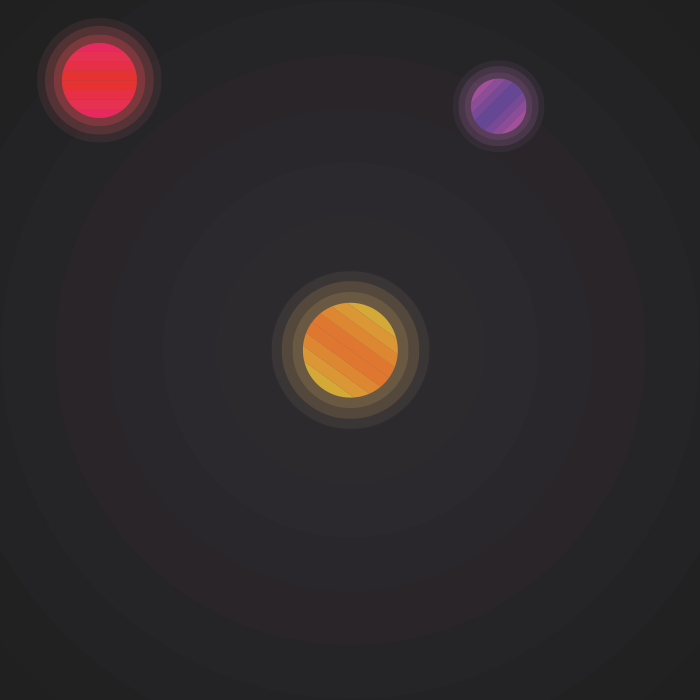
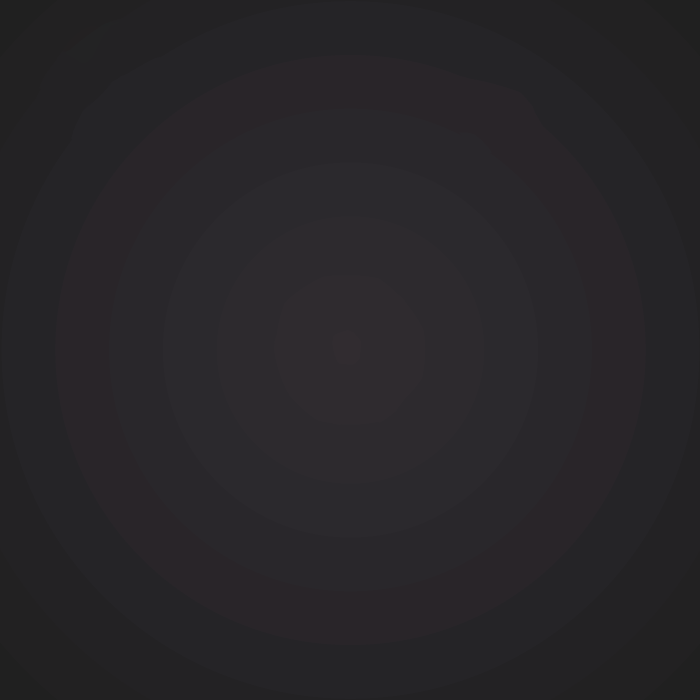
closed #3, rocket is moving, yay!

Changed region(s): [[0.39, 0.39, 0.6, 0.6], [0.06, 0.03, 0.24, 0.21], [0.66, 0.09, 0.78, 0.21]]

diff --git a/js/script.js b/js/script.js
@@ -50,7 +50,7 @@
 /* 1 */
 /***/ function(module, exports, __webpack_require__) {
 
-	eval("'use strict';\n\nfunction _interopRequireDefault(obj) { return obj && obj.__esModule ? obj : { 'default': obj }; }\n\nvar _classesStatesPreload = __webpack_require__(4);\n\nvar _classesStatesPreload2 = _interopRequireDefault(_classesStatesPreload);\n\nvar _classesStatesIntro = __webpack_require__(5);\n\nvar _classesStatesIntro2 = _interopRequireDefault(_classesStatesIntro);\n\nvar game = undefined;\n\nvar init = function init() {\n  game = new Phaser.Game(700, 700, Phaser.AUTO);\n  game.state.add('Preload', _classesStatesPreload2['default'], false);\n  game.state.add('Intro', _classesStatesIntro2['default'], false);\n  game.state.start('Preload');\n};\n\ninit();\n\n/*****************\n ** WEBPACK FOOTER\n ** ./_js/script.js\n ** module id = 1\n ** module chunks = 0\n **/\n//# sourceURL=webpack:///./_js/script.js?");
+	eval("'use strict';\n\nfunction _interopRequireDefault(obj) { return obj && obj.__esModule ? obj : { 'default': obj }; }\n\nvar _classesStatesPreload = __webpack_require__(4);\n\nvar _classesStatesPreload2 = _interopRequireDefault(_classesStatesPreload);\n\nvar _classesStatesIntro = __webpack_require__(5);\n\nvar _classesStatesIntro2 = _interopRequireDefault(_classesStatesIntro);\n\nvar _classesStatesPlay = __webpack_require__(9);\n\nvar _classesStatesPlay2 = _interopRequireDefault(_classesStatesPlay);\n\nvar game = undefined;\n\nvar init = function init() {\n  game = new Phaser.Game(700, 700, Phaser.AUTO);\n  game.state.add('Preload', _classesStatesPreload2['default'], false);\n  game.state.add('Intro', _classesStatesIntro2['default'], false);\n  game.state.add('Play', _classesStatesPlay2['default'], false);\n  game.state.start('Preload');\n};\n\ninit();\n\n/*****************\n ** WEBPACK FOOTER\n ** ./_js/script.js\n ** module id = 1\n ** module chunks = 0\n **/\n//# sourceURL=webpack:///./_js/script.js?");
 
 /***/ },
 /* 2 */
@@ -63,13 +63,13 @@
 /* 4 */
 /***/ function(module, exports) {
 
-	eval("'use strict';\n\nObject.defineProperty(exports, '__esModule', {\n  value: true\n});\n\nvar _createClass = (function () { function defineProperties(target, props) { for (var i = 0; i < props.length; i++) { var descriptor = props[i]; descriptor.enumerable = descriptor.enumerable || false; descriptor.configurable = true; if ('value' in descriptor) descriptor.writable = true; Object.defineProperty(target, descriptor.key, descriptor); } } return function (Constructor, protoProps, staticProps) { if (protoProps) defineProperties(Constructor.prototype, protoProps); if (staticProps) defineProperties(Constructor, staticProps); return Constructor; }; })();\n\nvar _get = function get(_x, _x2, _x3) { var _again = true; _function: while (_again) { var object = _x, property = _x2, receiver = _x3; _again = false; if (object === null) object = Function.prototype; var desc = Object.getOwnPropertyDescriptor(object, property); if (desc === undefined) { var parent = Object.getPrototypeOf(object); if (parent === null) { return undefined; } else { _x = parent; _x2 = property; _x3 = receiver; _again = true; desc = parent = undefined; continue _function; } } else if ('value' in desc) { return desc.value; } else { var getter = desc.get; if (getter === undefined) { return undefined; } return getter.call(receiver); } } };\n\nfunction _classCallCheck(instance, Constructor) { if (!(instance instanceof Constructor)) { throw new TypeError('Cannot call a class as a function'); } }\n\nfunction _inherits(subClass, superClass) { if (typeof superClass !== 'function' && superClass !== null) { throw new TypeError('Super expression must either be null or a function, not ' + typeof superClass); } subClass.prototype = Object.create(superClass && superClass.prototype, { constructor: { value: subClass, enumerable: false, writable: true, configurable: true } }); if (superClass) Object.setPrototypeOf ? Object.setPrototypeOf(subClass, superClass) : subClass.__proto__ = superClass; }\n\nvar Preload = (function (_Phaser$State) {\n  _inherits(Preload, _Phaser$State);\n\n  function Preload() {\n    _classCallCheck(this, Preload);\n\n    _get(Object.getPrototypeOf(Preload.prototype), 'constructor', this).apply(this, arguments);\n  }\n\n  _createClass(Preload, [{\n    key: 'preload',\n    value: function preload() {\n\n      this.load.onLoadComplete.addOnce(this.onLoadComplete, this);\n\n      this.load.image('raket', 'assets/raketklein.png');\n      this.load.image('start', 'assets/start.png');\n      this.load.image('meteoor', 'assets/meteoor.png');\n      this.load.image('planeet', 'assets/planeet.png');\n      this.load.image('background', 'assets/bg.png');\n\n      this.load.audio('rocket_launch', 'assets/sounds/launch.mp3');\n    }\n  }, {\n    key: 'create',\n    value: function create() {}\n  }, {\n    key: 'update',\n    value: function update() {}\n  }, {\n    key: 'onLoadComplete',\n    value: function onLoadComplete() {\n      this.game.state.start('Intro');\n    }\n  }]);\n\n  return Preload;\n})(Phaser.State);\n\nexports['default'] = Preload;\nmodule.exports = exports['default'];\n\n/*****************\n ** WEBPACK FOOTER\n ** ./_js/classes/states/Preload.js\n ** module id = 4\n ** module chunks = 0\n **/\n//# sourceURL=webpack:///./_js/classes/states/Preload.js?");
+	eval("'use strict';\n\nObject.defineProperty(exports, '__esModule', {\n  value: true\n});\n\nvar _createClass = (function () { function defineProperties(target, props) { for (var i = 0; i < props.length; i++) { var descriptor = props[i]; descriptor.enumerable = descriptor.enumerable || false; descriptor.configurable = true; if ('value' in descriptor) descriptor.writable = true; Object.defineProperty(target, descriptor.key, descriptor); } } return function (Constructor, protoProps, staticProps) { if (protoProps) defineProperties(Constructor.prototype, protoProps); if (staticProps) defineProperties(Constructor, staticProps); return Constructor; }; })();\n\nvar _get = function get(_x, _x2, _x3) { var _again = true; _function: while (_again) { var object = _x, property = _x2, receiver = _x3; _again = false; if (object === null) object = Function.prototype; var desc = Object.getOwnPropertyDescriptor(object, property); if (desc === undefined) { var parent = Object.getPrototypeOf(object); if (parent === null) { return undefined; } else { _x = parent; _x2 = property; _x3 = receiver; _again = true; desc = parent = undefined; continue _function; } } else if ('value' in desc) { return desc.value; } else { var getter = desc.get; if (getter === undefined) { return undefined; } return getter.call(receiver); } } };\n\nfunction _classCallCheck(instance, Constructor) { if (!(instance instanceof Constructor)) { throw new TypeError('Cannot call a class as a function'); } }\n\nfunction _inherits(subClass, superClass) { if (typeof superClass !== 'function' && superClass !== null) { throw new TypeError('Super expression must either be null or a function, not ' + typeof superClass); } subClass.prototype = Object.create(superClass && superClass.prototype, { constructor: { value: subClass, enumerable: false, writable: true, configurable: true } }); if (superClass) Object.setPrototypeOf ? Object.setPrototypeOf(subClass, superClass) : subClass.__proto__ = superClass; }\n\nvar Preload = (function (_Phaser$State) {\n  _inherits(Preload, _Phaser$State);\n\n  function Preload() {\n    _classCallCheck(this, Preload);\n\n    _get(Object.getPrototypeOf(Preload.prototype), 'constructor', this).apply(this, arguments);\n  }\n\n  _createClass(Preload, [{\n    key: 'preload',\n    value: function preload() {\n\n      this.load.onLoadComplete.addOnce(this.onLoadComplete, this);\n\n      this.load.image('raket', 'assets/raketklein.png');\n      this.load.image('start', 'assets/start.png');\n      this.load.image('meteoor', 'assets/meteoor.png');\n      this.load.image('planeet', 'assets/planeet.png');\n      this.load.image('background_overlay', 'assets/bgoverlay.png');\n      this.load.image('background', 'assets/bg.png');\n\n      this.load.audio('rocket_launch', 'assets/sounds/launch.mp3');\n    }\n  }, {\n    key: 'create',\n    value: function create() {}\n  }, {\n    key: 'update',\n    value: function update() {}\n  }, {\n    key: 'onLoadComplete',\n    value: function onLoadComplete() {\n      this.game.state.start('Intro');\n    }\n  }]);\n\n  return Preload;\n})(Phaser.State);\n\nexports['default'] = Preload;\nmodule.exports = exports['default'];\n\n/*****************\n ** WEBPACK FOOTER\n ** ./_js/classes/states/Preload.js\n ** module id = 4\n ** module chunks = 0\n **/\n//# sourceURL=webpack:///./_js/classes/states/Preload.js?");
 
 /***/ },
 /* 5 */
 /***/ function(module, exports, __webpack_require__) {
 
-	eval("'use strict';\n\nObject.defineProperty(exports, '__esModule', {\n  value: true\n});\n\nvar _createClass = (function () { function defineProperties(target, props) { for (var i = 0; i < props.length; i++) { var descriptor = props[i]; descriptor.enumerable = descriptor.enumerable || false; descriptor.configurable = true; if ('value' in descriptor) descriptor.writable = true; Object.defineProperty(target, descriptor.key, descriptor); } } return function (Constructor, protoProps, staticProps) { if (protoProps) defineProperties(Constructor.prototype, protoProps); if (staticProps) defineProperties(Constructor, staticProps); return Constructor; }; })();\n\nvar _get = function get(_x, _x2, _x3) { var _again = true; _function: while (_again) { var object = _x, property = _x2, receiver = _x3; _again = false; if (object === null) object = Function.prototype; var desc = Object.getOwnPropertyDescriptor(object, property); if (desc === undefined) { var parent = Object.getPrototypeOf(object); if (parent === null) { return undefined; } else { _x = parent; _x2 = property; _x3 = receiver; _again = true; desc = parent = undefined; continue _function; } } else if ('value' in desc) { return desc.value; } else { var getter = desc.get; if (getter === undefined) { return undefined; } return getter.call(receiver); } } };\n\nfunction _interopRequireDefault(obj) { return obj && obj.__esModule ? obj : { 'default': obj }; }\n\nfunction _classCallCheck(instance, Constructor) { if (!(instance instanceof Constructor)) { throw new TypeError('Cannot call a class as a function'); } }\n\nfunction _inherits(subClass, superClass) { if (typeof superClass !== 'function' && superClass !== null) { throw new TypeError('Super expression must either be null or a function, not ' + typeof superClass); } subClass.prototype = Object.create(superClass && superClass.prototype, { constructor: { value: subClass, enumerable: false, writable: true, configurable: true } }); if (superClass) Object.setPrototypeOf ? Object.setPrototypeOf(subClass, superClass) : subClass.__proto__ = superClass; }\n\nvar _objectsRocket = __webpack_require__(6);\n\nvar _objectsRocket2 = _interopRequireDefault(_objectsRocket);\n\nvar _objectsSpace = __webpack_require__(7);\n\nvar _objectsSpace2 = _interopRequireDefault(_objectsSpace);\n\nvar Intro = (function (_Phaser$State) {\n  _inherits(Intro, _Phaser$State);\n\n  function Intro() {\n    _classCallCheck(this, Intro);\n\n    _get(Object.getPrototypeOf(Intro.prototype), 'constructor', this).apply(this, arguments);\n  }\n\n  _createClass(Intro, [{\n    key: 'create',\n    value: function create() {\n      this.space = new _objectsSpace2['default'](this.game, 0, 0, 700, 700);\n      this.game.add.existing(this.space);\n\n      this.rocket = new _objectsRocket2['default'](this.game, 350, 600);\n      this.game.add.existing(this.rocket);\n\n      this.startButton = this.game.add.button(350, 500, 'start', this.goClick, this);\n      this.startButton.anchor.setTo(0.5, 0.5);\n    }\n  }, {\n    key: 'goClick',\n    value: function goClick() {}\n  }]);\n\n  return Intro;\n})(Phaser.State);\n\nexports['default'] = Intro;\nmodule.exports = exports['default'];\n\n/*****************\n ** WEBPACK FOOTER\n ** ./_js/classes/states/Intro.js\n ** module id = 5\n ** module chunks = 0\n **/\n//# sourceURL=webpack:///./_js/classes/states/Intro.js?");
+	eval("'use strict';\n\nObject.defineProperty(exports, '__esModule', {\n  value: true\n});\n\nvar _createClass = (function () { function defineProperties(target, props) { for (var i = 0; i < props.length; i++) { var descriptor = props[i]; descriptor.enumerable = descriptor.enumerable || false; descriptor.configurable = true; if ('value' in descriptor) descriptor.writable = true; Object.defineProperty(target, descriptor.key, descriptor); } } return function (Constructor, protoProps, staticProps) { if (protoProps) defineProperties(Constructor.prototype, protoProps); if (staticProps) defineProperties(Constructor, staticProps); return Constructor; }; })();\n\nvar _get = function get(_x, _x2, _x3) { var _again = true; _function: while (_again) { var object = _x, property = _x2, receiver = _x3; _again = false; if (object === null) object = Function.prototype; var desc = Object.getOwnPropertyDescriptor(object, property); if (desc === undefined) { var parent = Object.getPrototypeOf(object); if (parent === null) { return undefined; } else { _x = parent; _x2 = property; _x3 = receiver; _again = true; desc = parent = undefined; continue _function; } } else if ('value' in desc) { return desc.value; } else { var getter = desc.get; if (getter === undefined) { return undefined; } return getter.call(receiver); } } };\n\nfunction _interopRequireDefault(obj) { return obj && obj.__esModule ? obj : { 'default': obj }; }\n\nfunction _classCallCheck(instance, Constructor) { if (!(instance instanceof Constructor)) { throw new TypeError('Cannot call a class as a function'); } }\n\nfunction _inherits(subClass, superClass) { if (typeof superClass !== 'function' && superClass !== null) { throw new TypeError('Super expression must either be null or a function, not ' + typeof superClass); } subClass.prototype = Object.create(superClass && superClass.prototype, { constructor: { value: subClass, enumerable: false, writable: true, configurable: true } }); if (superClass) Object.setPrototypeOf ? Object.setPrototypeOf(subClass, superClass) : subClass.__proto__ = superClass; }\n\nvar _objectsBackground = __webpack_require__(8);\n\nvar _objectsBackground2 = _interopRequireDefault(_objectsBackground);\n\nvar _objectsRocket = __webpack_require__(6);\n\nvar _objectsRocket2 = _interopRequireDefault(_objectsRocket);\n\nvar _objectsSpace = __webpack_require__(7);\n\nvar _objectsSpace2 = _interopRequireDefault(_objectsSpace);\n\nvar Intro = (function (_Phaser$State) {\n  _inherits(Intro, _Phaser$State);\n\n  function Intro() {\n    _classCallCheck(this, Intro);\n\n    _get(Object.getPrototypeOf(Intro.prototype), 'constructor', this).apply(this, arguments);\n  }\n\n  _createClass(Intro, [{\n    key: 'create',\n    value: function create() {\n      this.bg = new _objectsBackground2['default'](this.game, 0, 0, 700, 700);\n      this.game.add.existing(this.bg);\n\n      this.space = new _objectsSpace2['default'](this.game, 0, 0, 700, 700);\n      this.game.add.existing(this.space);\n\n      this.rocket = new _objectsRocket2['default'](this.game, 350, 600);\n      this.game.add.existing(this.rocket);\n\n      this.startButton = this.game.add.button(350, 500, 'start', this.goClick, this);\n      this.startButton.anchor.setTo(0.5, 0.5);\n    }\n  }, {\n    key: 'goClick',\n    value: function goClick() {\n      this.game.state.start('Play');\n    }\n  }]);\n\n  return Intro;\n})(Phaser.State);\n\nexports['default'] = Intro;\nmodule.exports = exports['default'];\n\n/*****************\n ** WEBPACK FOOTER\n ** ./_js/classes/states/Intro.js\n ** module id = 5\n ** module chunks = 0\n **/\n//# sourceURL=webpack:///./_js/classes/states/Intro.js?");
 
 /***/ },
 /* 6 */
@@ -81,7 +81,19 @@
 /* 7 */
 /***/ function(module, exports) {
 
-	eval("'use strict';\n\nObject.defineProperty(exports, '__esModule', {\n  value: true\n});\n\nvar _get = function get(_x, _x2, _x3) { var _again = true; _function: while (_again) { var object = _x, property = _x2, receiver = _x3; _again = false; if (object === null) object = Function.prototype; var desc = Object.getOwnPropertyDescriptor(object, property); if (desc === undefined) { var parent = Object.getPrototypeOf(object); if (parent === null) { return undefined; } else { _x = parent; _x2 = property; _x3 = receiver; _again = true; desc = parent = undefined; continue _function; } } else if ('value' in desc) { return desc.value; } else { var getter = desc.get; if (getter === undefined) { return undefined; } return getter.call(receiver); } } };\n\nfunction _classCallCheck(instance, Constructor) { if (!(instance instanceof Constructor)) { throw new TypeError('Cannot call a class as a function'); } }\n\nfunction _inherits(subClass, superClass) { if (typeof superClass !== 'function' && superClass !== null) { throw new TypeError('Super expression must either be null or a function, not ' + typeof superClass); } subClass.prototype = Object.create(superClass && superClass.prototype, { constructor: { value: subClass, enumerable: false, writable: true, configurable: true } }); if (superClass) Object.setPrototypeOf ? Object.setPrototypeOf(subClass, superClass) : subClass.__proto__ = superClass; }\n\nvar Track = (function (_Phaser$TileSprite) {\n  _inherits(Track, _Phaser$TileSprite);\n\n  function Track(game, x, y, width, height) {\n    _classCallCheck(this, Track);\n\n    _get(Object.getPrototypeOf(Track.prototype), 'constructor', this).call(this, game, x, y, width, height, 'background');\n    this.game.physics.arcade.enableBody(this);\n\n    this.body.allowGravity = false;\n    this.body.immovable = true;\n  }\n\n  return Track;\n})(Phaser.TileSprite);\n\nexports['default'] = Track;\nmodule.exports = exports['default'];\n\n/*****************\n ** WEBPACK FOOTER\n ** ./_js/classes/objects/Space.js\n ** module id = 7\n ** module chunks = 0\n **/\n//# sourceURL=webpack:///./_js/classes/objects/Space.js?");
+	eval("'use strict';\n\nObject.defineProperty(exports, '__esModule', {\n  value: true\n});\n\nvar _get = function get(_x, _x2, _x3) { var _again = true; _function: while (_again) { var object = _x, property = _x2, receiver = _x3; _again = false; if (object === null) object = Function.prototype; var desc = Object.getOwnPropertyDescriptor(object, property); if (desc === undefined) { var parent = Object.getPrototypeOf(object); if (parent === null) { return undefined; } else { _x = parent; _x2 = property; _x3 = receiver; _again = true; desc = parent = undefined; continue _function; } } else if ('value' in desc) { return desc.value; } else { var getter = desc.get; if (getter === undefined) { return undefined; } return getter.call(receiver); } } };\n\nfunction _classCallCheck(instance, Constructor) { if (!(instance instanceof Constructor)) { throw new TypeError('Cannot call a class as a function'); } }\n\nfunction _inherits(subClass, superClass) { if (typeof superClass !== 'function' && superClass !== null) { throw new TypeError('Super expression must either be null or a function, not ' + typeof superClass); } subClass.prototype = Object.create(superClass && superClass.prototype, { constructor: { value: subClass, enumerable: false, writable: true, configurable: true } }); if (superClass) Object.setPrototypeOf ? Object.setPrototypeOf(subClass, superClass) : subClass.__proto__ = superClass; }\n\nvar Space = (function (_Phaser$TileSprite) {\n  _inherits(Space, _Phaser$TileSprite);\n\n  function Space(game, x, y, width, height) {\n    _classCallCheck(this, Space);\n\n    _get(Object.getPrototypeOf(Space.prototype), 'constructor', this).call(this, game, x, y, width, height, 'background_overlay');\n    this.game.physics.arcade.enableBody(this);\n\n    this.body.allowGravity = false;\n    this.body.immovable = true;\n  }\n\n  return Space;\n})(Phaser.TileSprite);\n\nexports['default'] = Space;\nmodule.exports = exports['default'];\n\n/*****************\n ** WEBPACK FOOTER\n ** ./_js/classes/objects/Space.js\n ** module id = 7\n ** module chunks = 0\n **/\n//# sourceURL=webpack:///./_js/classes/objects/Space.js?");
+
+/***/ },
+/* 8 */
+/***/ function(module, exports) {
+
+	eval("'use strict';\n\nObject.defineProperty(exports, '__esModule', {\n  value: true\n});\n\nvar _get = function get(_x, _x2, _x3) { var _again = true; _function: while (_again) { var object = _x, property = _x2, receiver = _x3; _again = false; if (object === null) object = Function.prototype; var desc = Object.getOwnPropertyDescriptor(object, property); if (desc === undefined) { var parent = Object.getPrototypeOf(object); if (parent === null) { return undefined; } else { _x = parent; _x2 = property; _x3 = receiver; _again = true; desc = parent = undefined; continue _function; } } else if ('value' in desc) { return desc.value; } else { var getter = desc.get; if (getter === undefined) { return undefined; } return getter.call(receiver); } } };\n\nfunction _classCallCheck(instance, Constructor) { if (!(instance instanceof Constructor)) { throw new TypeError('Cannot call a class as a function'); } }\n\nfunction _inherits(subClass, superClass) { if (typeof superClass !== 'function' && superClass !== null) { throw new TypeError('Super expression must either be null or a function, not ' + typeof superClass); } subClass.prototype = Object.create(superClass && superClass.prototype, { constructor: { value: subClass, enumerable: false, writable: true, configurable: true } }); if (superClass) Object.setPrototypeOf ? Object.setPrototypeOf(subClass, superClass) : subClass.__proto__ = superClass; }\n\nvar Background = (function (_Phaser$TileSprite) {\n  _inherits(Background, _Phaser$TileSprite);\n\n  function Background(game, x, y, width, height) {\n    _classCallCheck(this, Background);\n\n    _get(Object.getPrototypeOf(Background.prototype), 'constructor', this).call(this, game, x, y, width, height, 'background');\n    this.game.physics.arcade.enableBody(this);\n\n    this.body.allowGravity = false;\n    this.body.immovable = true;\n  }\n\n  return Background;\n})(Phaser.TileSprite);\n\nexports['default'] = Background;\nmodule.exports = exports['default'];\n\n/*****************\n ** WEBPACK FOOTER\n ** ./_js/classes/objects/Background.js\n ** module id = 8\n ** module chunks = 0\n **/\n//# sourceURL=webpack:///./_js/classes/objects/Background.js?");
+
+/***/ },
+/* 9 */
+/***/ function(module, exports, __webpack_require__) {
+
+	eval("'use strict';\n\nObject.defineProperty(exports, '__esModule', {\n  value: true\n});\n\nvar _createClass = (function () { function defineProperties(target, props) { for (var i = 0; i < props.length; i++) { var descriptor = props[i]; descriptor.enumerable = descriptor.enumerable || false; descriptor.configurable = true; if ('value' in descriptor) descriptor.writable = true; Object.defineProperty(target, descriptor.key, descriptor); } } return function (Constructor, protoProps, staticProps) { if (protoProps) defineProperties(Constructor.prototype, protoProps); if (staticProps) defineProperties(Constructor, staticProps); return Constructor; }; })();\n\nvar _get = function get(_x, _x2, _x3) { var _again = true; _function: while (_again) { var object = _x, property = _x2, receiver = _x3; _again = false; if (object === null) object = Function.prototype; var desc = Object.getOwnPropertyDescriptor(object, property); if (desc === undefined) { var parent = Object.getPrototypeOf(object); if (parent === null) { return undefined; } else { _x = parent; _x2 = property; _x3 = receiver; _again = true; desc = parent = undefined; continue _function; } } else if ('value' in desc) { return desc.value; } else { var getter = desc.get; if (getter === undefined) { return undefined; } return getter.call(receiver); } } };\n\nfunction _interopRequireDefault(obj) { return obj && obj.__esModule ? obj : { 'default': obj }; }\n\nfunction _classCallCheck(instance, Constructor) { if (!(instance instanceof Constructor)) { throw new TypeError('Cannot call a class as a function'); } }\n\nfunction _inherits(subClass, superClass) { if (typeof superClass !== 'function' && superClass !== null) { throw new TypeError('Super expression must either be null or a function, not ' + typeof superClass); } subClass.prototype = Object.create(superClass && superClass.prototype, { constructor: { value: subClass, enumerable: false, writable: true, configurable: true } }); if (superClass) Object.setPrototypeOf ? Object.setPrototypeOf(subClass, superClass) : subClass.__proto__ = superClass; }\n\nvar _objectsBackground = __webpack_require__(8);\n\nvar _objectsBackground2 = _interopRequireDefault(_objectsBackground);\n\nvar _objectsRocket = __webpack_require__(6);\n\nvar _objectsRocket2 = _interopRequireDefault(_objectsRocket);\n\nvar _objectsSpace = __webpack_require__(7);\n\nvar _objectsSpace2 = _interopRequireDefault(_objectsSpace);\n\nvar Play = (function (_Phaser$State) {\n  _inherits(Play, _Phaser$State);\n\n  function Play() {\n    _classCallCheck(this, Play);\n\n    _get(Object.getPrototypeOf(Play.prototype), 'constructor', this).apply(this, arguments);\n  }\n\n  _createClass(Play, [{\n    key: 'create',\n    value: function create() {\n      this.bg = new _objectsBackground2['default'](this.game, 0, 0, 700, 700);\n      this.game.add.existing(this.bg);\n\n      this.space = new _objectsSpace2['default'](this.game, 0, 0, 700, 700);\n      this.game.add.existing(this.space);\n      this.space.autoScroll(0, 200);\n\n      this.rocket = new _objectsRocket2['default'](this.game, 350, 600);\n      this.game.add.existing(this.rocket);\n\n      this.cursors = this.game.input.keyboard.createCursorKeys();\n    }\n  }, {\n    key: 'update',\n    value: function update() {\n      if (this.cursors.left.isDown) {\n        this.rocket.body.velocity.x += -10;\n      }\n      if (this.cursors.right.isDown) {\n        this.rocket.body.velocity.x += 10;\n      }\n    }\n  }]);\n\n  return Play;\n})(Phaser.State);\n\nexports['default'] = Play;\nmodule.exports = exports['default'];\n\n/*****************\n ** WEBPACK FOOTER\n ** ./_js/classes/states/Play.js\n ** module id = 9\n ** module chunks = 0\n **/\n//# sourceURL=webpack:///./_js/classes/states/Play.js?");
 
 /***/ }
 /******/ ]);

diff --git a/_js/classes/states/Play.js b/_js/classes/states/Play.js
@@ -2,21 +2,27 @@ import Background from '../objects/Background';
 import Rocket from '../objects/Rocket';
 import Space from '../objects/Space';
 
-export default class Intro extends Phaser.State {
+export default class Play extends Phaser.State {
   create() {
     this.bg = new Background(this.game, 0, 0, 700, 700);
     this.game.add.existing(this.bg);
 
     this.space = new Space(this.game, 0, 0, 700, 700);
     this.game.add.existing(this.space);
+    this.space.autoScroll(0,200);
 
     this.rocket = new Rocket(this.game, 350, 600);
     this.game.add.existing(this.rocket);
 
-    this.startButton = this.game.add.button(350, 500, 'start', this.goClick, this);
-    this.startButton.anchor.setTo(0.5,0.5);
+    this.cursors = this.game.input.keyboard.createCursorKeys();
   }
-  goClick() {
-    this.game.state.start('Play');
+
+  update() {
+    if(this.cursors.left.isDown) {
+        this.rocket.body.velocity.x += -10;
+    }
+    if(this.cursors.right.isDown){
+        this.rocket.body.velocity.x += 10;
+    }
   }
 }

diff --git a/_js/script.js b/_js/script.js
@@ -1,5 +1,6 @@
 import Preload from './classes/states/Preload';
 import Intro from './classes/states/Intro';
+import Play from './classes/states/Play';
 
 let game;
 
@@ -7,6 +8,7 @@ const init = () => {
   game = new Phaser.Game(700, 700, Phaser.AUTO);
   game.state.add('Preload', Preload, false);
   game.state.add('Intro', Intro, false);
+  game.state.add('Play', Play, false);
   game.state.start('Preload');
 };
 

diff --git a/_js/classes/states/Preload.js b/_js/classes/states/Preload.js
@@ -7,6 +7,7 @@ export default class Preload extends Phaser.State {
     this.load.image('start', 'assets/start.png');
     this.load.image('meteoor', 'assets/meteoor.png');
     this.load.image('planeet', 'assets/planeet.png');
+    this.load.image('background_overlay', 'assets/bgoverlay.png');
     this.load.image('background', 'assets/bg.png');
 
     this.load.audio('rocket_launch', 'assets/sounds/launch.mp3');

diff --git a/_js/classes/objects/Background.js b/_js/classes/objects/Background.js
@@ -1,6 +1,6 @@
-export default class Space extends Phaser.TileSprite {
+export default class Background extends Phaser.TileSprite {
   constructor(game, x, y, width, height) {
-    super(game, x, y, width, height, 'background_overlay');
+    super(game, x, y, width, height, 'background');
     this.game.physics.arcade.enableBody(this);
 
     this.body.allowGravity = false;
